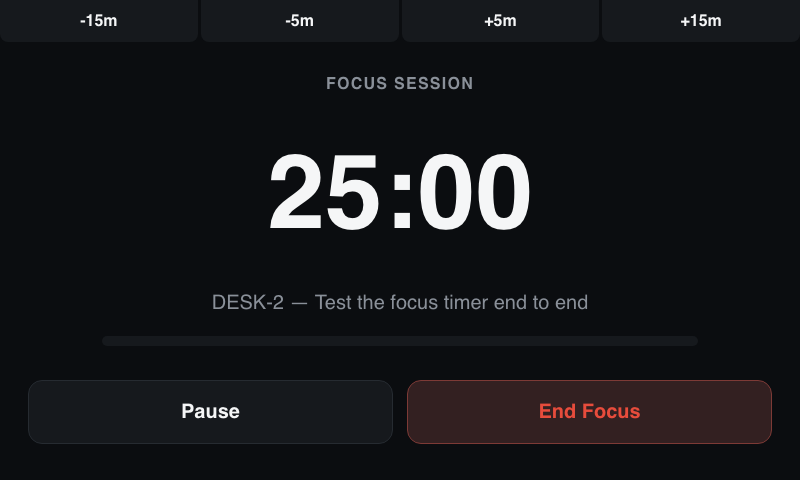
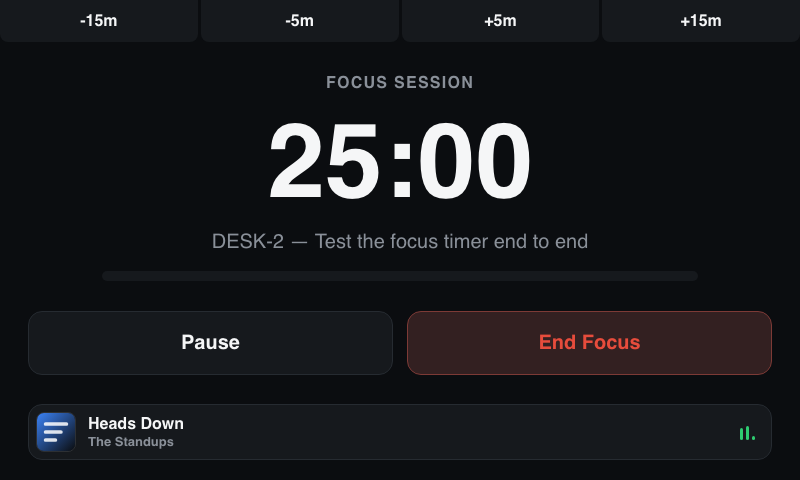
chore(deskbar): release 0.7.0

diff --git a/apps/deskbar/CHANGELOG.md b/apps/deskbar/CHANGELOG.md
@@ -1,5 +1,9 @@
 # deskbar
 
+## 0.7.0
+
+The focus timer now has the now-playing widget along the bottom: tap it for the full-screen player, which shows the focus timer beside Back, or press the dial to play/pause without leaving the timer. Tap the clock in Home's dock to show the screensaver right away. The screensaver only shows the current track while it's playing.
+
 ## 0.6.0
 
 Added a bottom dock to Home with a clock, a now-playing widget for the phone's Spotify (tap it for a full-screen player: presets 1-4 are previous, play/pause, next and like, the dial seeks, dial press plays/pauses, Back closes), and today's logged time. The idle screensaver also shows the current track.
